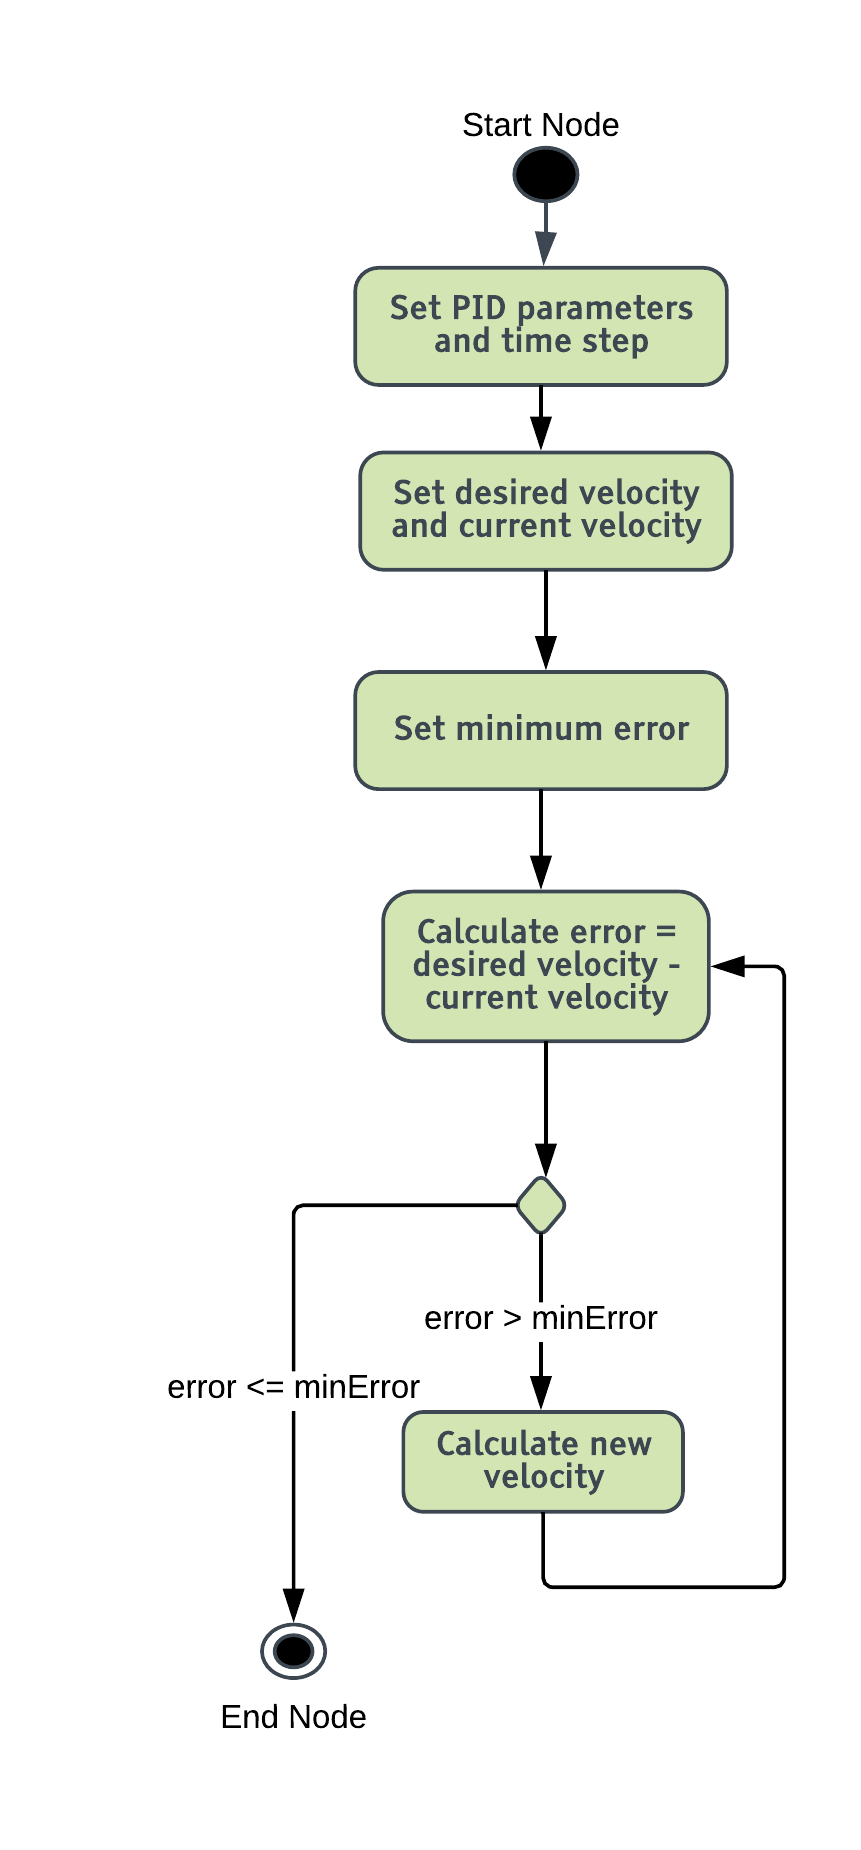
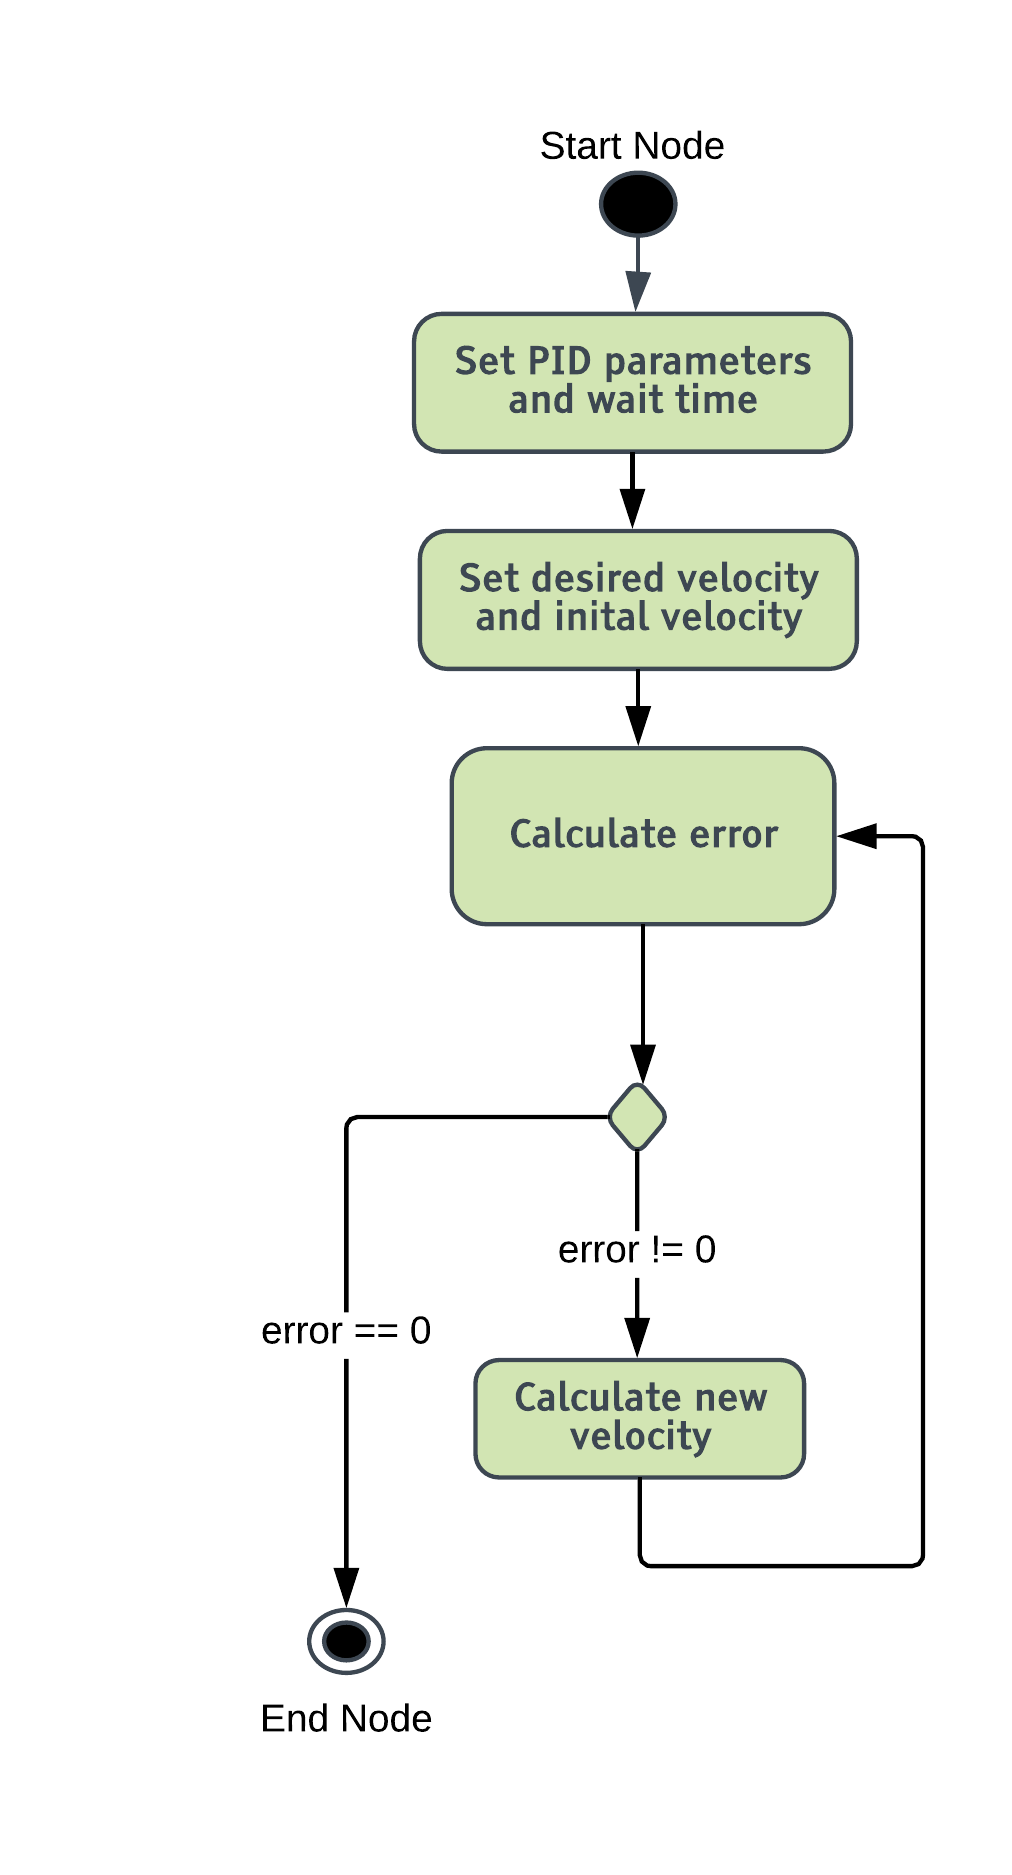
Upated UML diagram & acitvity diagram. Updated class declaration

Changed region(s): [[0.2416, 0.0616, 0.9361, 0.9551], [0.1812, 0.7395, 0.2718, 0.7703]]

diff --git a/app/PIDController.cpp b/app/PIDController.cpp
@@ -26,9 +26,10 @@ PIDController::PIDController() {
   kp = 1;
   ki = 1;
   kd = 1;
-  dt = 0.1;
+  waitTime = 0.1;
   velocity = 0;
-  error = 0;
+  errorSum = 0;
+  errorPrevious = 0;
 }
 
 /**
@@ -52,12 +53,12 @@ PIDController::~PIDController() {
  *   @return none
  */
 void PIDController::chnageParameters(double kp, double ki, double kd,
-                                     double dt) {
-  // TODO(ajeetwankhede) change the values of kp, ki, kd, and dt
+                                     double waitTime) {
+  // TODO(ajeetwankhede) change the values of kp, ki, kd, and waitTime
 }
 
 /**
- *   @brief Use this function to display the current values of PID parameters kp, ki, and kd, and time step dt
+ *   @brief Use this function to display the current values of PID parameters kp, ki, and kd, and time step (waitTime)
  *
  *   @param none
  *   @return none
@@ -66,17 +67,6 @@ void PIDController::displayParameters() {
   // TODO(ajeetwankhede) display the PID parameters kp, ki, kd
 }
 
-/**
- *   @brief Use this function to calculate the error between desired velocity and current velocity
- *
- *   @param double value of desired velocity
- *   @param double value of current velocity
- *   @return double value of error
- */
-double PIDController::calculateError(double setVelocity, double velocity) {
-  // TODO(ajeetwankhede) calculate the error and return it
-  return 100.0;
-}
 
 /**
  *   @brief Use this function to calculate the current velocity from the error and PID parameters
@@ -84,7 +74,7 @@ double PIDController::calculateError(double setVelocity, double velocity) {
  *   @param none
  *   @return double value of current velocity
  */
-double PIDController::calculateVelocity() {
+double PIDController::calculateVelocity(double setVelocity, double velocity) {
   // TODO(ajeetwankhede) calculate the current velocity
   return 10.0;
 }

diff --git a/include/PIDController.hpp b/include/PIDController.hpp
@@ -21,11 +21,12 @@ class PIDController {
   // Declaration of PID parameters
   double kp, ki, kd;
   // Declaration of error and time step
-  double error, dt;
+  double errorSum, errorPrevious;
   // Declaration of current velocity
   double velocity;
 
  public:
+  double waitTime;
   /**
    *   @brief Default constructor for PIDController with kp, ki, and kd initialized to random values
    *
@@ -46,32 +47,24 @@ class PIDController {
    *   @param double value of proportional gain (kp)
    *   @param double value of integral gain (ki)
    *   @param double value of differential gain (kd)
-   *   @param double value of time step (dt)
+   *   @param double value of time step (waitTime)
    *   @return none
    */
   void chnageParameters(double, double, double, double);
   /**
-   *   @brief Use this function to display the current values of PID parameters kp, ki, and kd, and time step dt
+   *   @brief Use this function to display the current values of PID parameters kp, ki, and kd, and time step (waitTime)
    *
    *   @param none
    *   @return none
    */
   void displayParameters();
   /**
-   *   @brief Use this function to calculate the error between desired velocity and current velocity
-   *
+   *   @brief Use this function to calculate the current velocity from the errors and PID parameters
    *   @param double value of desired velocity
    *   @param double value of current velocity
-   *   @return double value of error
-   */
-  double calculateError(double, double);
-  /**
-   *   @brief Use this function to calculate the current velocity from the error and PID parameters
-   *
-   *   @param none
    *   @return double value of current velocity
    */
-  double calculateVelocity();
+  double calculateVelocity(double, double);
 };
 
 #endif  // INCLUDE_PIDCONTROLLER_HPP_

diff --git a/test/test.cpp b/test/test.cpp
@@ -19,12 +19,12 @@
 
 std::shared_ptr<PIDController> testObject;
 
-TEST(PIDController, calculateErrorTest) {
-  testObject = std::make_shared<PIDController>();
-  ASSERT_EQ(2.0, testObject->calculateError(50.0, 1.0));
-}
-
 TEST(PIDController, calculateVelocityTest) {
   testObject = std::make_shared<PIDController>();
-  ASSERT_EQ(0.0, testObject->calculateVelocity());
+  ASSERT_EQ(0.0, testObject->calculateVelocity(10.0, 1.0));
+}
+
+TEST(PIDController, waitTimeTest) {
+  testObject = std::make_shared<PIDController>();
+  ASSERT_LT(0.0, testObject->waitTime);
 }
